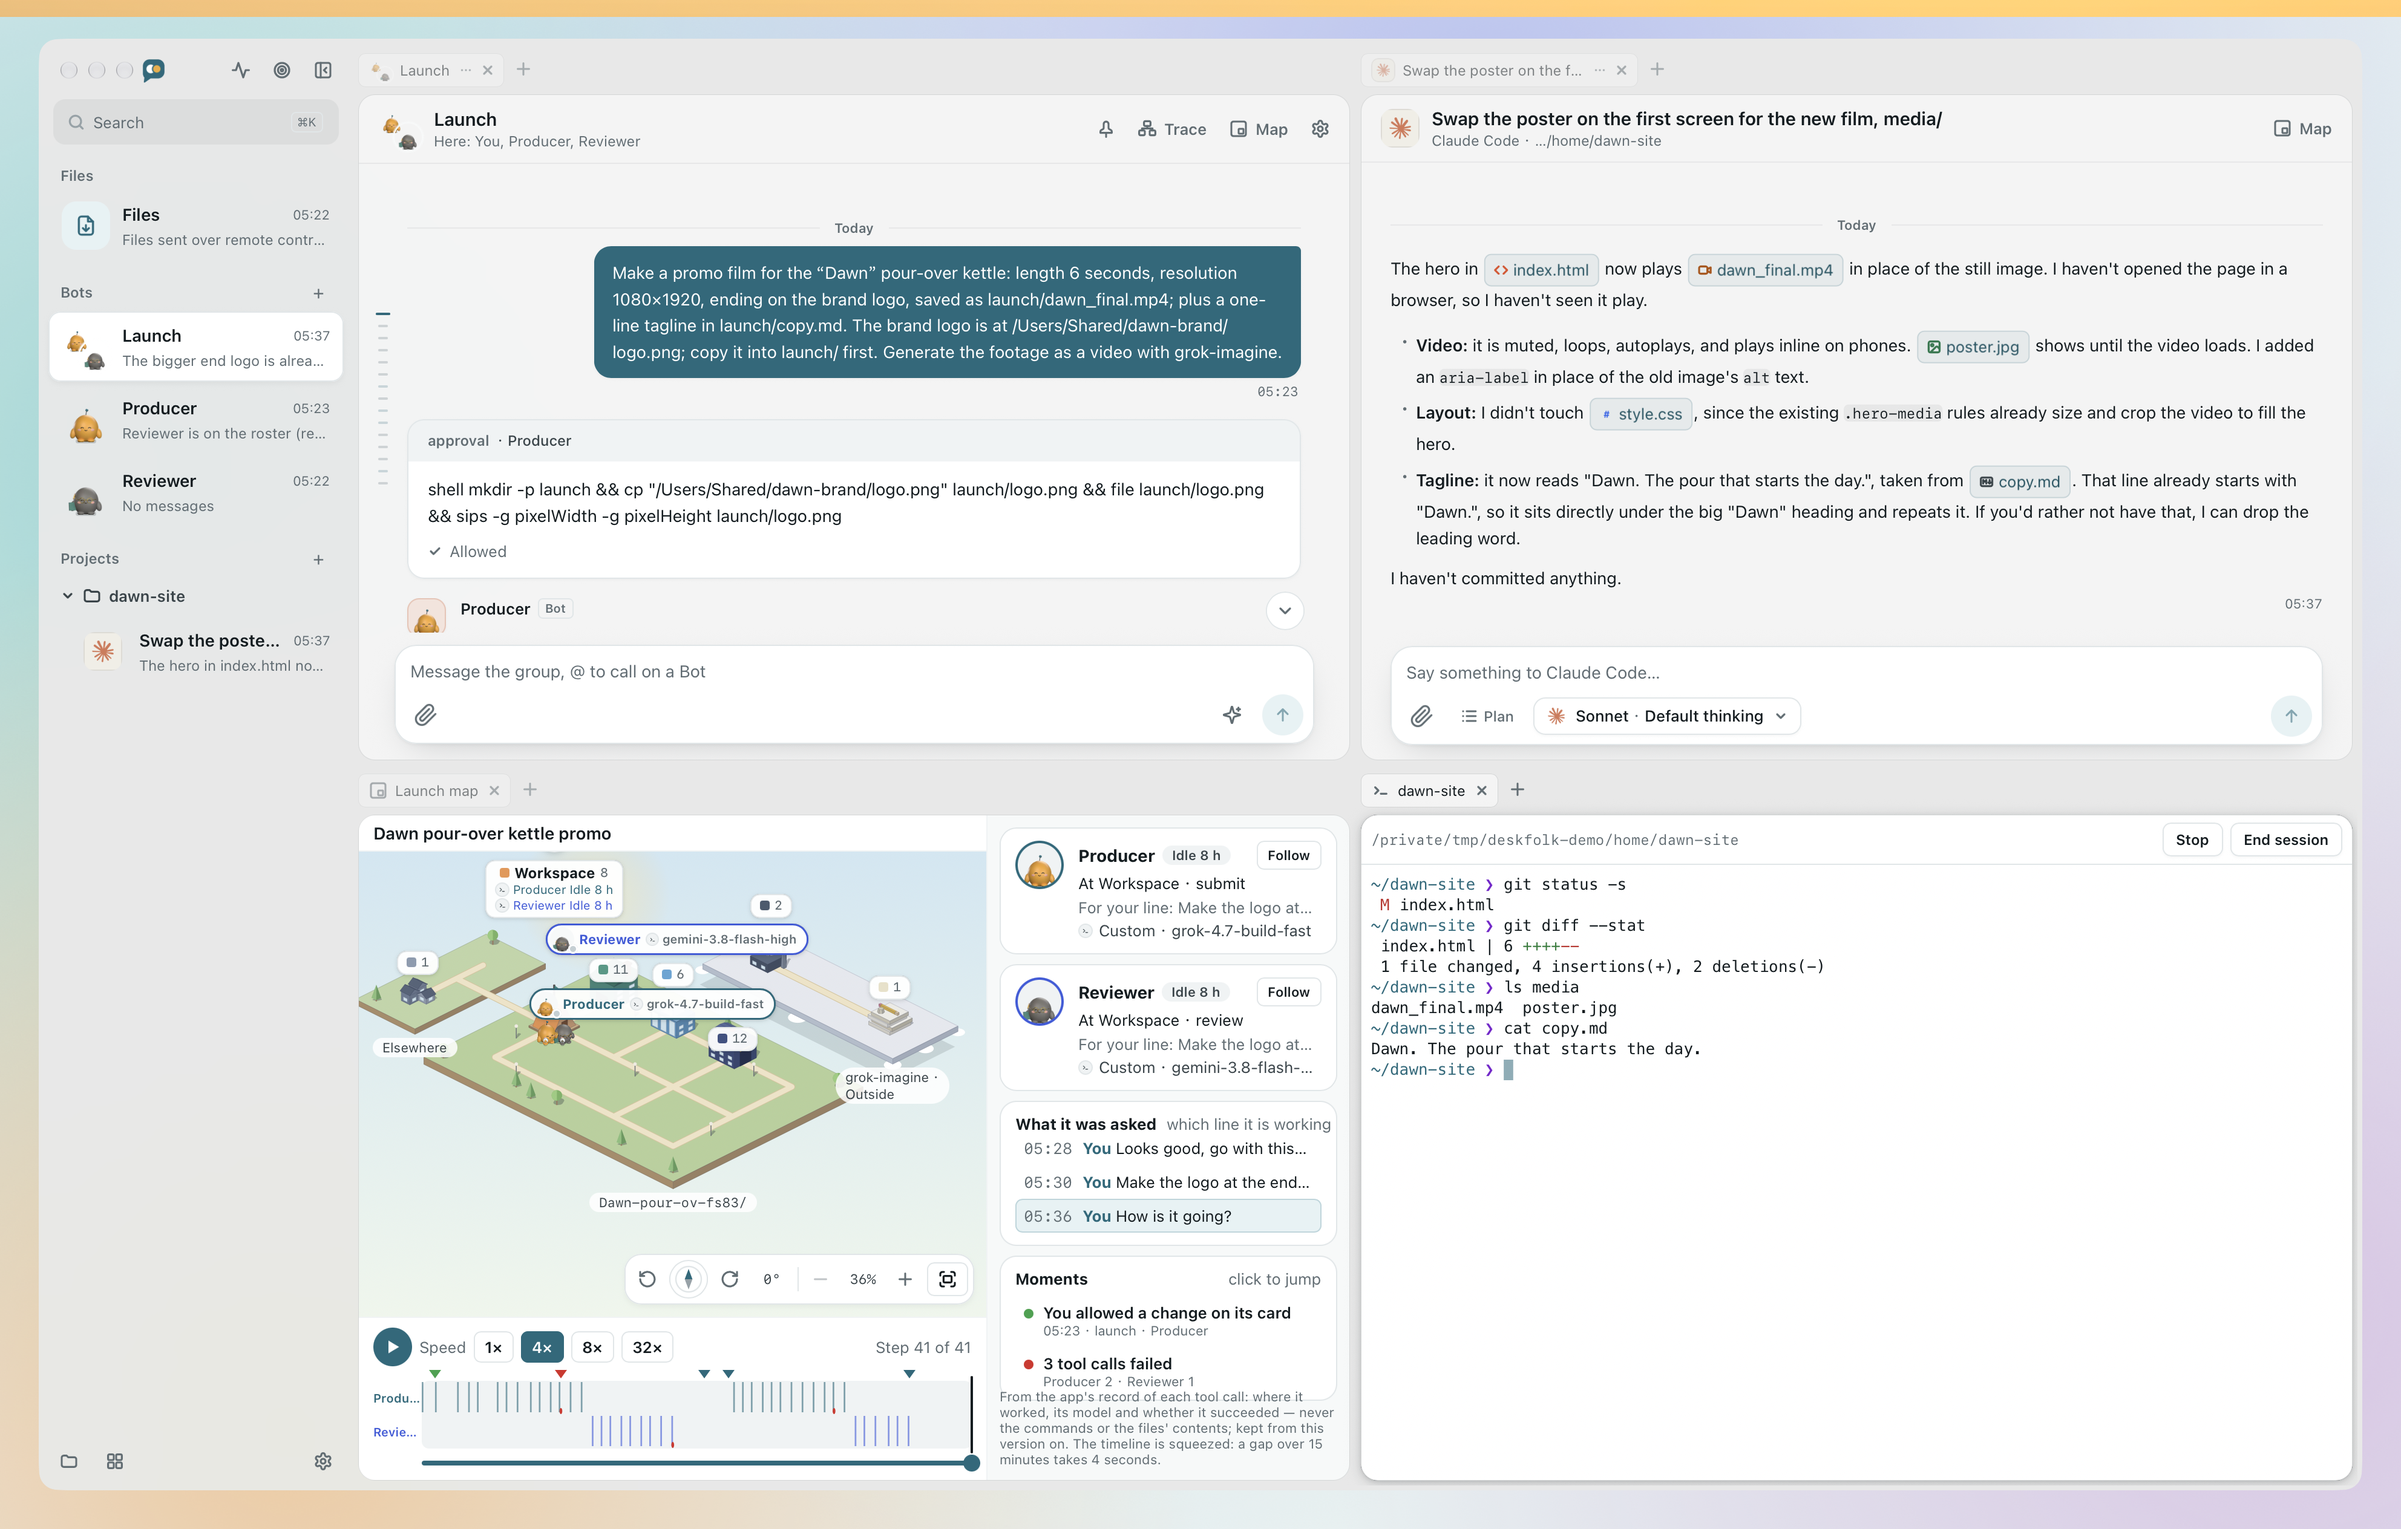
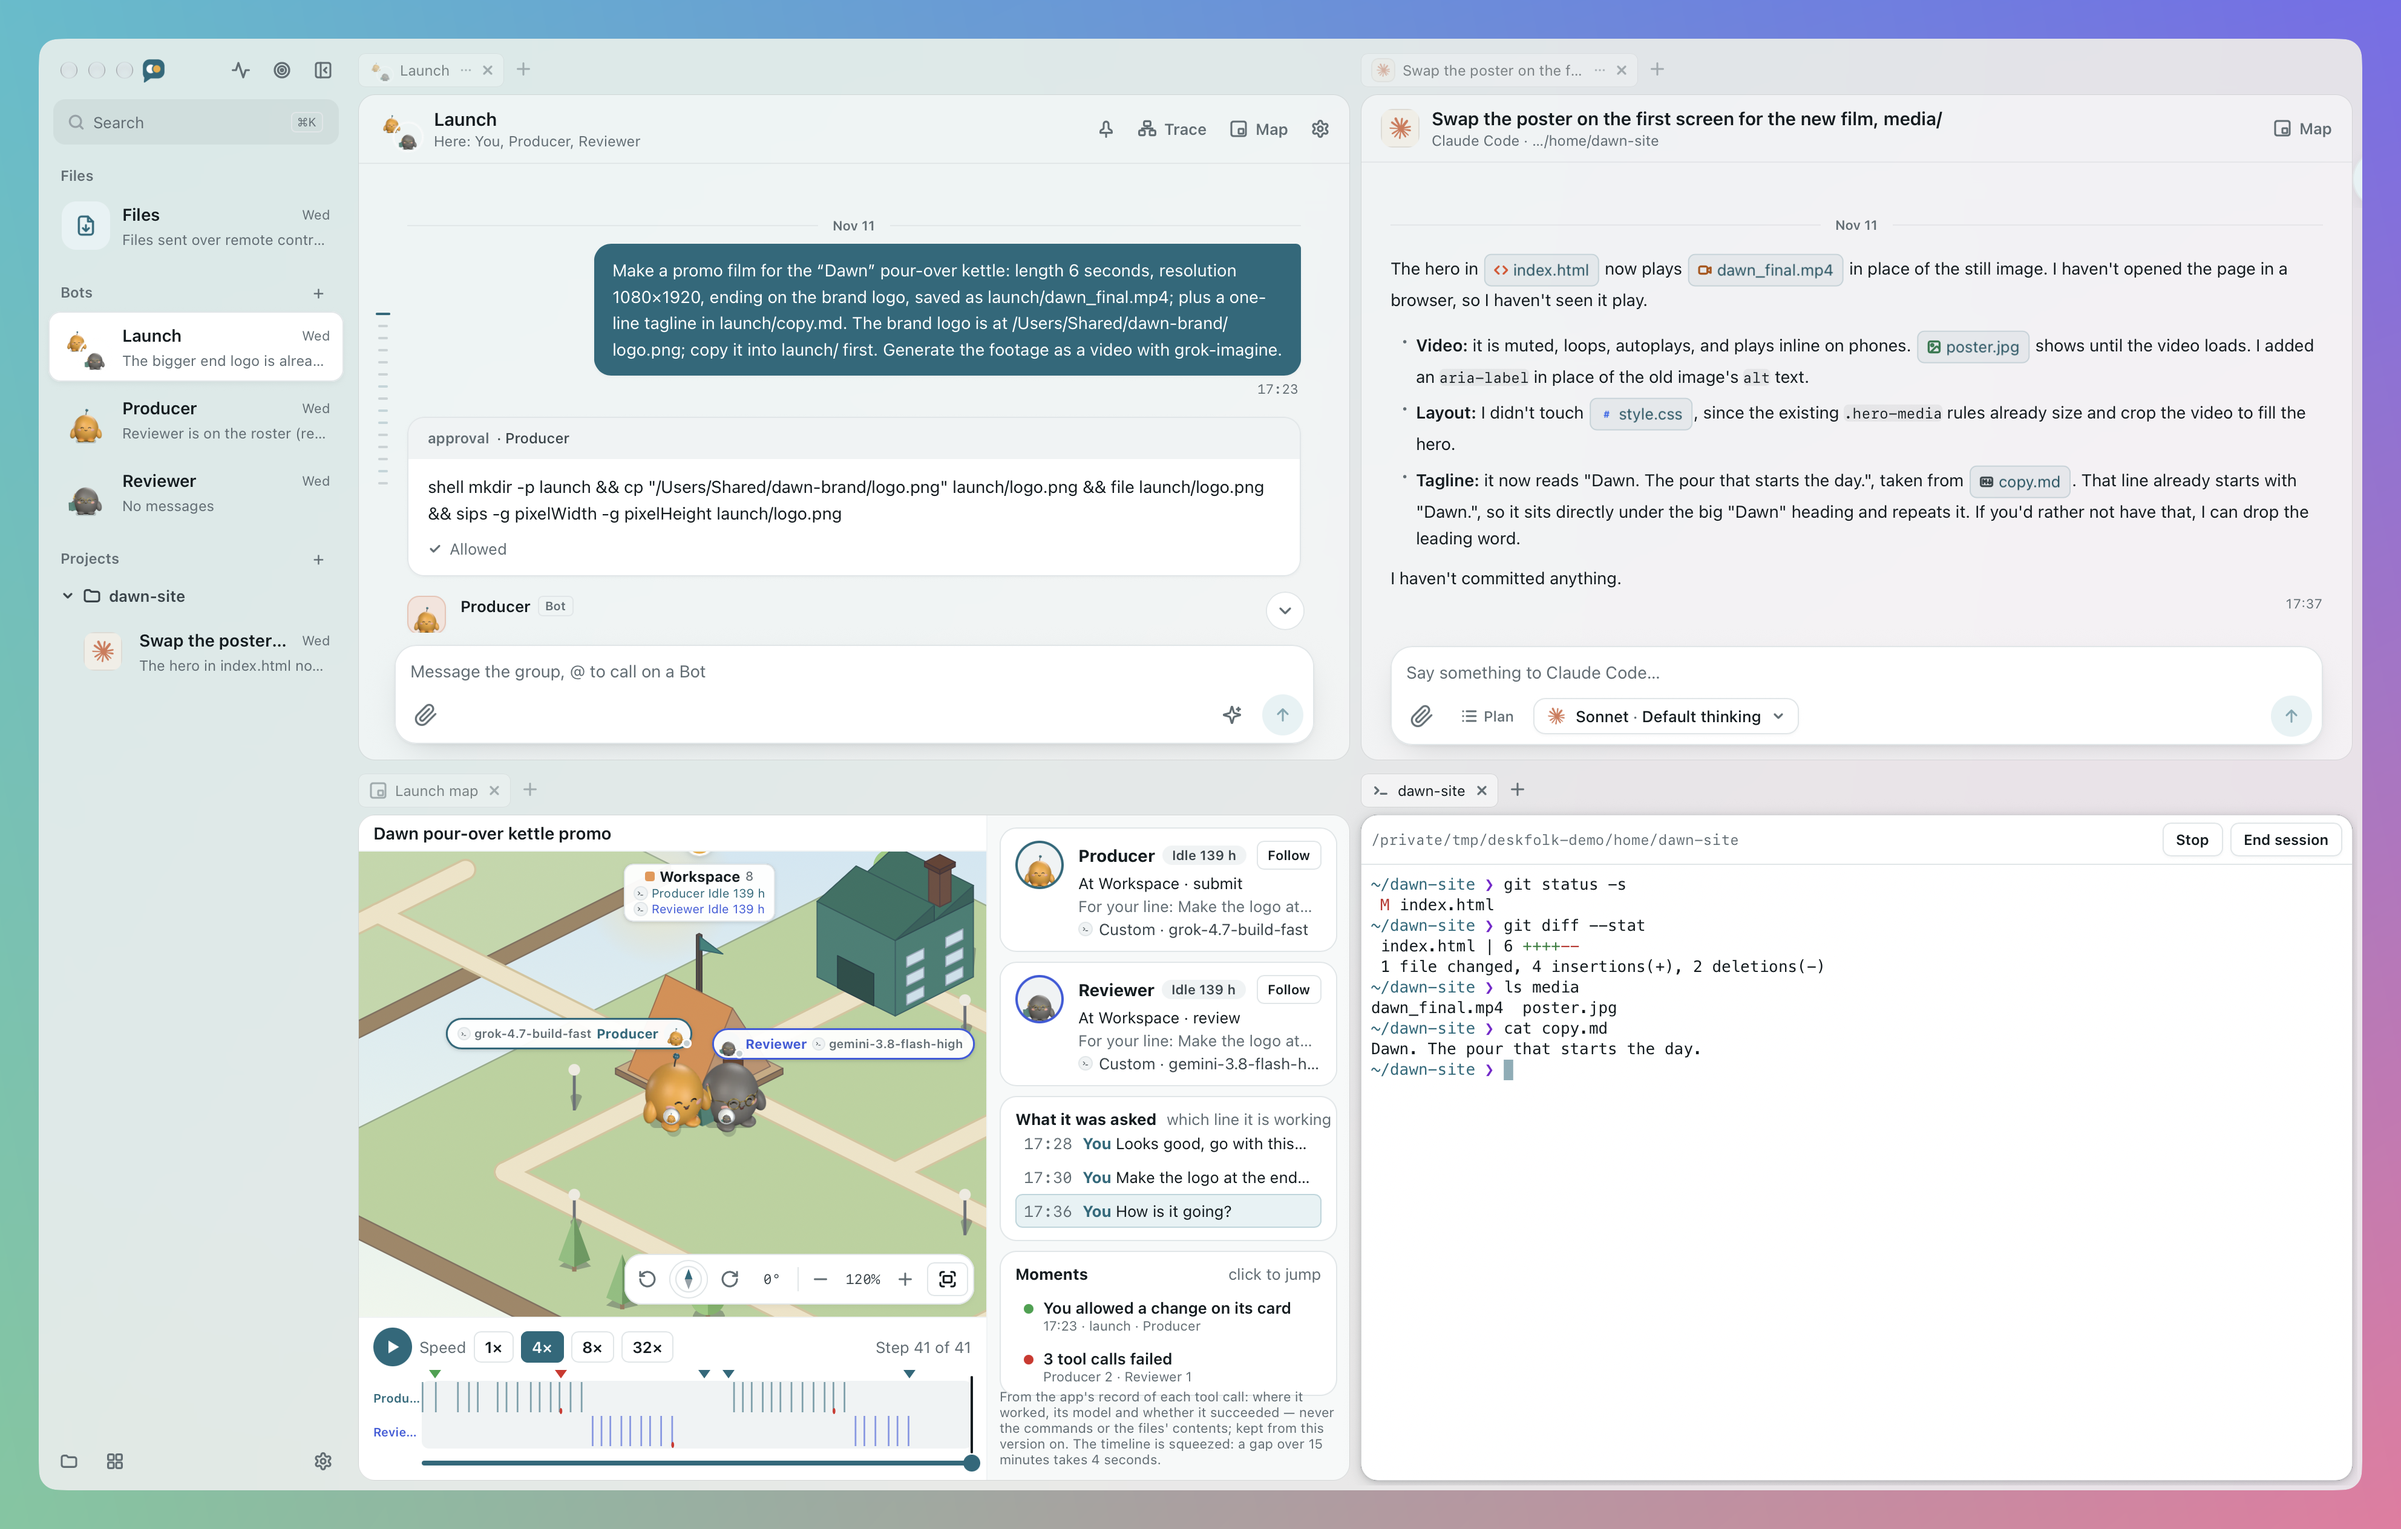
Deskfolk: clear-glass screenshots, two light and two dark

diff --git a/apps/deskfolk/README.md b/apps/deskfolk/README.md
@@ -32,6 +32,6 @@ Talk to Claude Code or Codex itself in a folder of yours, in the same window as 
 
 ## A workbench of your own
 
-Split the window into panes of conversations, task maps, flows, terminals, the routine calendar, Spend and Usage. Bots can start work on a daily or weekly routine, and they get better with use: after a delivery, each Bot that tripped up reads the job's record and works what it learned into its own memories and skills. On macOS, pair a phone through a relay you run yourself, end-to-end encrypted, to follow and answer your conversations away from the desk.
+Split the window into panes of conversations, task maps, flows, terminals, the routine calendar, Spend and Usage, in a light or dark theme; on macOS and Windows 11 the panes can let the window's glass show through. Bots can start work on a daily or weekly routine, and they get better with use: after a delivery, each Bot that tripped up reads the job's record and works what it learned into its own memories and skills. On macOS, pair a phone through a relay you run yourself, end-to-end encrypted, to follow and answer your conversations away from the desk.
 
 [Website](https://blackman99.github.io/deskfolk/) · [GitHub repository](https://github.com/Blackman99/deskfolk)
